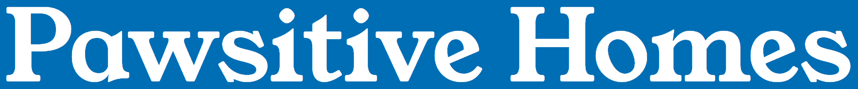
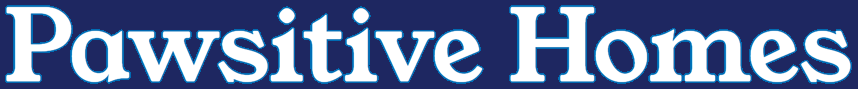
work on navbar and dashboard

diff --git a/Pawsitive-Homes/src/App.jsx b/Pawsitive-Homes/src/App.jsx
@@ -4,7 +4,9 @@ import AboutPage from './pages/AboutPage';
 import LogIn from './pages/LogIn';
 import SignUp from './pages/SignUp';
 import Header from '../src/components/Header';
+import Navbar from './components/Navbar';
 import AnimalList from './components/AnimalList';
+import DashboardPage from './pages/DashboardPage';
 import { useEffect, useState } from 'react';
 import api from './services/api';
 
@@ -62,8 +64,10 @@ const App = () => {
     return (
         <div>
             <Header />
+            <Navbar />
             <Routes>
-                <Route path='/' element={<AnimalList animals={animals} />} />
+                <Route path='/' element={<DashboardPage />} />
+                {/* <Route path='/' element={<AnimalList animals={animals} />} /> */}
                 <Route
                     path='/dogs'
                     element={<AnimalList animals={dogs} animalSpecies='Dog' />}

diff --git a/Pawsitive-Homes/src/pages/DashboardPage.jsx b/Pawsitive-Homes/src/pages/DashboardPage.jsx
@@ -1,9 +1,11 @@
 import AnimalList from '../components/AnimalList';
+import TopDashboard from '../assets/TopDashboard.png';
+import '../styles/DashboardPage.css';
 
 function DashboardPage() {
     return (
-        <div>
-            <h1>Pawsitive Homes</h1>
+        <div className='Dashboard'>
+            <img src={TopDashboard} alt="Animals" />
             <AnimalList />
         </div>
     );

diff --git a/Pawsitive-Homes/src/components/Header.jsx b/Pawsitive-Homes/src/components/Header.jsx
@@ -2,7 +2,7 @@ import { Link } from 'react-router-dom';
 import OrganizationName from '../assets/OrganizationName.png';
 import MainLogo from '../assets/MainLogo.png';
 import { Button } from '@mantine/core';
-import '../styles/header.css';
+import '../styles/Header.css';
 
 function Header() {
     return (

diff --git a/Pawsitive-Homes/src/components/Navbar.jsx b/Pawsitive-Homes/src/components/Navbar.jsx
@@ -1,0 +1,12 @@
+import '../styles/Navbar.css';
+
+
+function Navbar() {
+    return ( 
+        <div className='Navbar'>
+            <p style={{fontSize: '50px'}}>here goes the navbar buttons</p>
+        </div>
+     );
+}
+
+export default Navbar;

diff --git a/Pawsitive-Homes/src/styles/header.css b/Pawsitive-Homes/src/styles/header.css
@@ -1,5 +1,5 @@
 .header {
-    background-color: #006eb4ff;
+    background-color: #1E2761;
     display: flex;
     flex-wrap: wrap;
     justify-content: space-between;

diff --git a/Pawsitive-Homes/src/styles/Navbar.css b/Pawsitive-Homes/src/styles/Navbar.css
@@ -1,0 +1,9 @@
+.Navbar {
+    background-color: #408EC6;
+    display: flex;    
+    align-content: center;
+}
+
+.Navbar p {    
+    margin: 0 auto;    
+}

diff --git a/Pawsitive-Homes/src/styles/DashboardPage.css b/Pawsitive-Homes/src/styles/DashboardPage.css
@@ -1,0 +1,3 @@
+.Dashboard img {
+    width: 100vw;
+}
